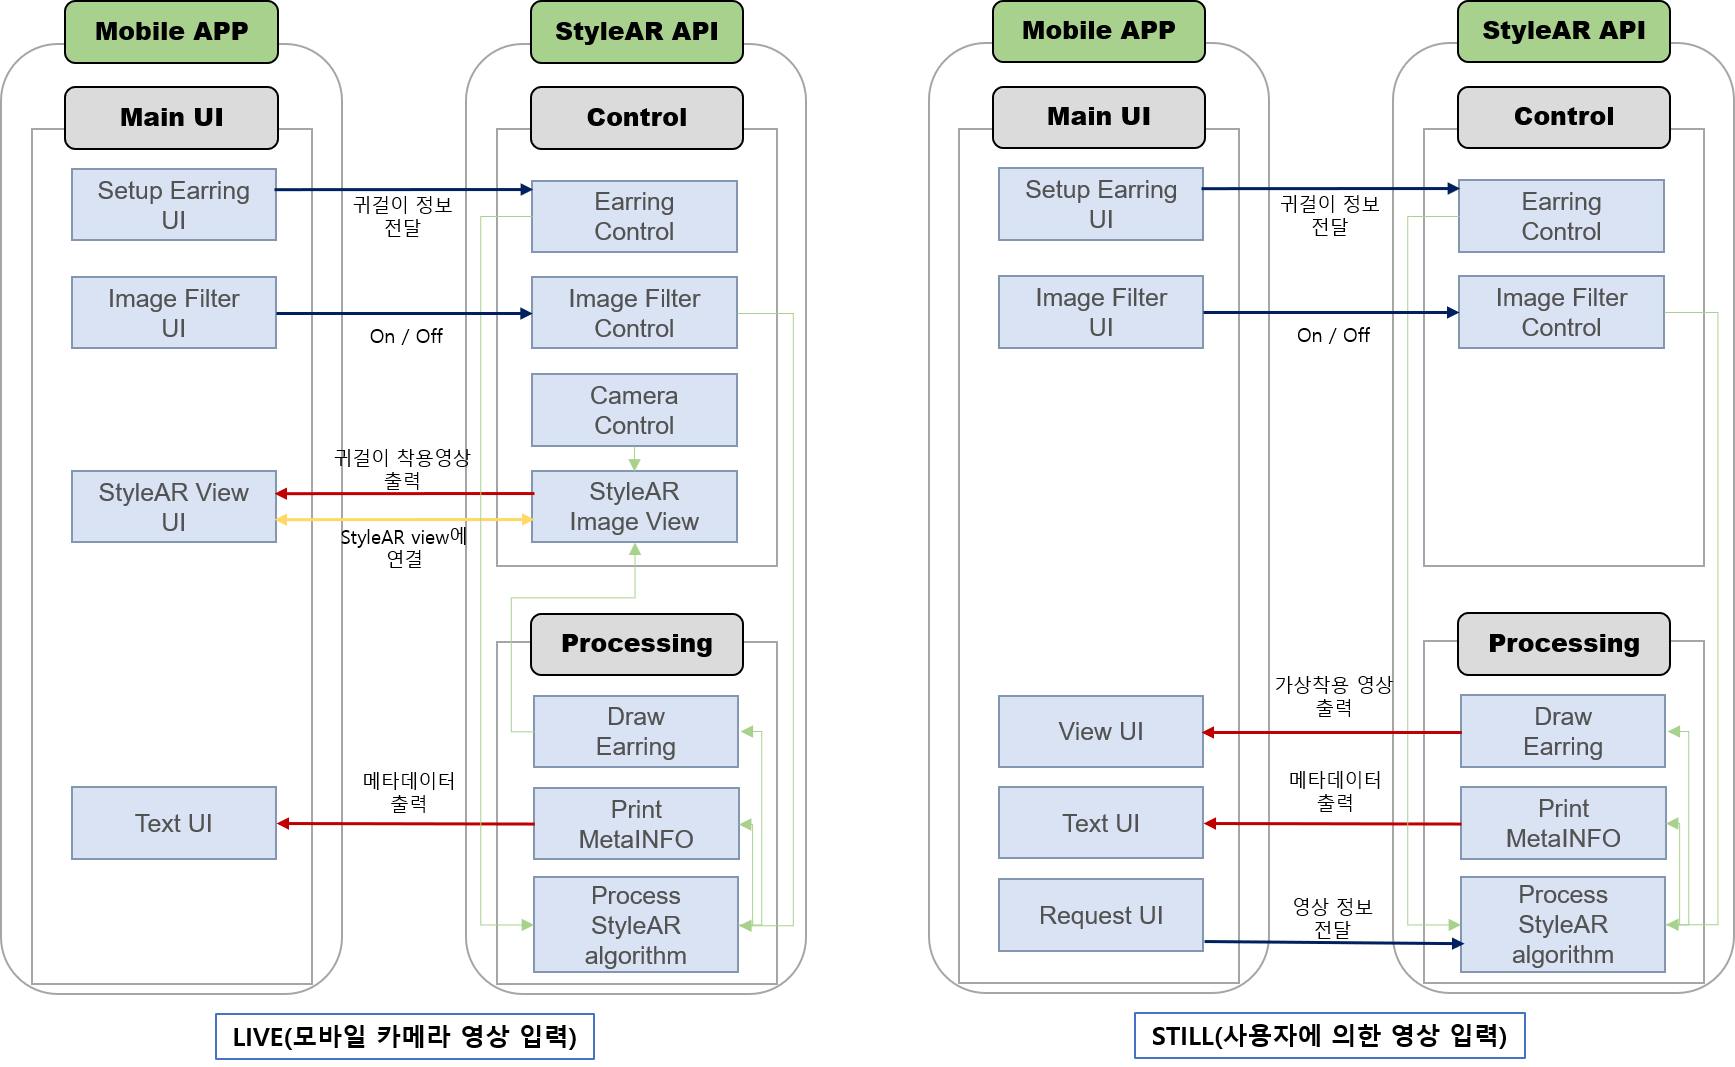
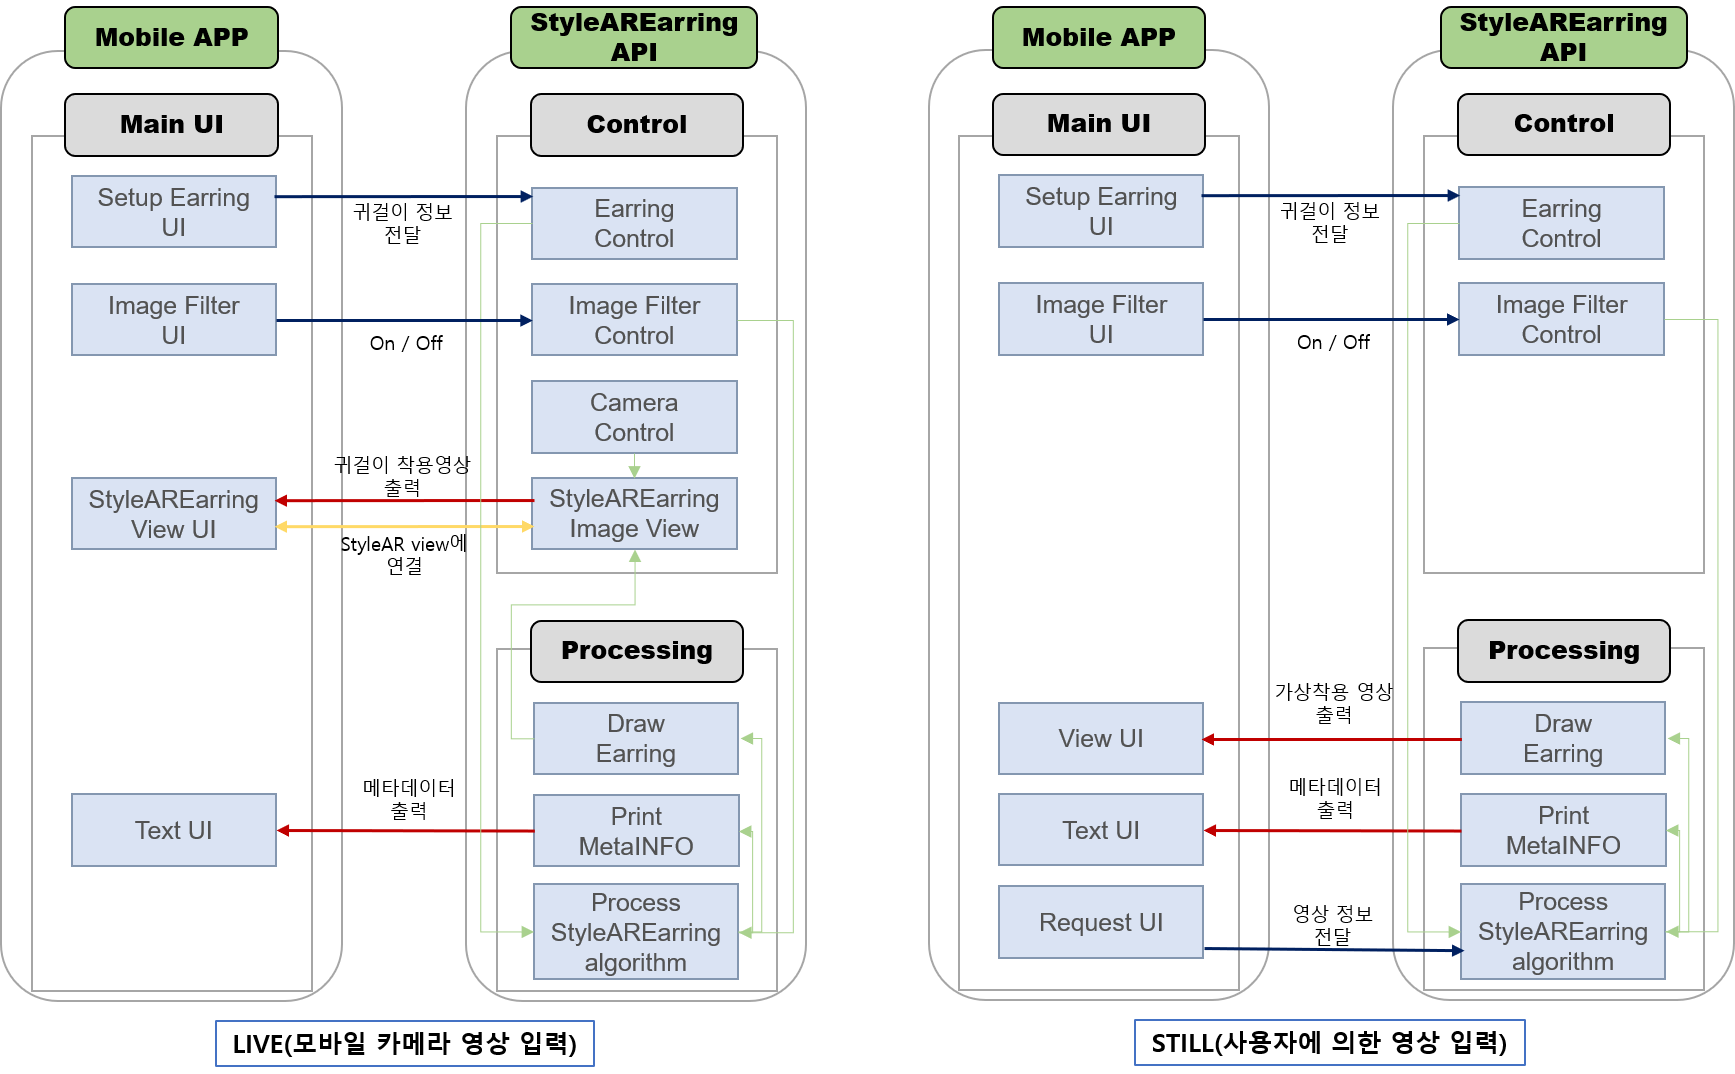
(modify) styleAR -> StyleAREarring

diff --git a/StyleAR/Earring/APP/tutorial/README.md b/StyleAR/Earring/APP/tutorial/README.md
@@ -42,7 +42,7 @@
 
 ### 화면 및 귀걸이 보정
 
-**StyleAREarring API**는 가상착용결과를 유려하게 보이기 위해 **출력영상**에 **두가지** **필터 알고리즘**을 적용하고 있습니다. 첫번째는 **화면전체**에 필터를 적용하여 **뽀샵효과**를 줄 수 있고, 두번째는 **귀걸이**를 **얼굴의 톤**을 고려하여 **색깔이 변경** 할 수 있습니다. 이 기능들은 **ON / OFF** 할 수 있습니다.
+**StyleAREarring API**는 가상착용결과를 유려하게 보이기 위해 **출력영상**에 **두가지** **필터 알고리즘**을 적용하고 있습니다. 첫번째는 **화면전체**에 필터를 적용하여 **뽀샵효과**를 줄 수 있고, 두번째는 **귀걸이 색깔**이 **얼굴의 톤**에 맞게 변경 할 수 있습니다. 이 기능들은 **ON / OFF** 할 수 있습니다.
 
 <center><img src="https://deepixel-dev1.github.io/StyleAR/Earring/APP/tutorial/img/Output(Filter).png" width="950"></center><br/>
 
@@ -106,7 +106,7 @@
 |목차|내용|
 |:-:|:-:|
 |**발급**|<support@deepixel.xyz>로 문의 바랍니다.|
-|**폼**|1.회사명<br> 2. 적용 어플리케이션 ID<br> 3. StyleAR API 사용기간<br> 4. 메타데이터기능 사용유무<br> 5. 담당자 연락처 |
+|**폼**|1.회사명<br> 2. 적용 어플리케이션 ID<br> 3. StyleAREarring API 사용기간<br> 4. 메타데이터기능 사용유무<br> 5. 담당자 연락처 |
 
 - **환경설정**  
   환경설정에서는 **StyleAREarring API 라이브러리**를 **모바일 프로젝트**에 **등록하는 방법** 및 **프로젝트 권한 설정** 방법을 설명합니다.
@@ -121,7 +121,7 @@
 ※ 우선 **StyleAREarring API `LIVE`** 동작하기 위한 준비단계로는 `(1)StyleAREarring view UI 컴포넌트 연결`하고 실제 구동을 위해 `(2)시작함수 호출`을 해야 합니다. **StyleAREarring API** **동작 중**에는 `(2-1)귀걸이 변경`, `(2-2)메타데이터 취득`, `(2-3)필터 설정`을 할 수 있습니다. **StyleAREarring API `LIVE`** 은 `(3)종료함수 호출`을 통해 구동을 멈출 수있습니다. 자세한 설명은 아래와 같습니다.
 
 - **(1) StyleAREarring view UI생성 및 연결**  
-  **StyleAREarring API `LIVE`** 는 입력영상을 카메라에서 얻을 수도 있습니다. 하지만 **카메라 설정에 따라 잘못된 결과를 출력** 할 수 있기 때문에, **StyleAREarring API `LIVE`** 는 **카메라 및 view를 컨트롤** 하는 기능을 **내부**에 **포함**하고 있습니다. 따라서 **StyleAREarring API `LIVE`** 를 사용 할 시 Layout에 StyleAREarring view UI 컴포넌트를 만들고 실제 StyleAR view 클래스를 연결하는 코드만 추가하면 **다른 설정 필요없이 사용**할 수 있습니다.
+  **StyleAREarring API `LIVE`** 는 입력영상을 카메라에서 얻을 수도 있습니다. 하지만 **카메라 설정에 따라 잘못된 결과를 출력** 할 수 있기 때문에, **StyleAREarring API `LIVE`** 는 **카메라 및 view를 컨트롤** 하는 기능을 **내부**에 **포함**하고 있습니다. 따라서 **StyleAREarring API `LIVE`** 를 사용 할 시 Layout에 StyleAREarring view UI 컴포넌트를 만들고 실제 StyleAREarring view 클래스를 연결하는 코드만 추가하면 **다른 설정 필요없이 사용**할 수 있습니다.
 
   - StyleAREarring view UI 컴포넌트 생성  
     Main Layout에 StyleAREarring view UI 컴포넌트를 생성합니다.
@@ -325,7 +325,7 @@
 
 ## 연락처
 
-StyleAR API 적용시 문제점을 발견하거나 궁금한 점이 있다면, 이메일(support@deepixel.xyz)로 문의해 주세요.  
+StyleAREarring API 적용시 문제점을 발견하거나 궁금한 점이 있다면, 이메일(support@deepixel.xyz)로 문의해 주세요.  
 
 ***
 

diff --git a/StyleAR/Earring/APP/tutorial/input.md b/StyleAR/Earring/APP/tutorial/input.md
@@ -55,7 +55,7 @@
 ## 참조
 
 - [배경지우는 방법(PPT)][remove_background_ppt]
-- [StyleAR API 튜토리얼][android_tutorial]
+- [StyleAREarring API 튜토리얼][android_tutorial]
 
 [remove_background_ppt]: https://support.office.com/en-us/article/remove-the-background-of-a-picture-c0819a62-6844-4190-8d67-6fb1713a12bf
-[android_tutorial]: https://deepixel-dev1.github.io/StyleAR/tutorial/
+[android_tutorial]: https://deepixel-dev1.github.io/StyleAR/Earring/APP/tutorial/
